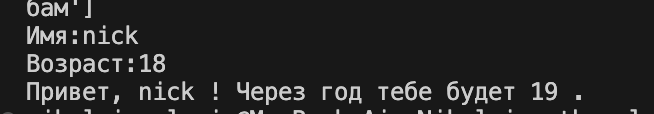
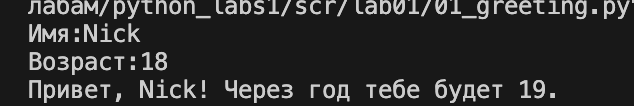
Upd3

diff --git a/scr/lab01/01_greeting.py b/scr/lab01/01_greeting.py
@@ -1,3 +1,3 @@
 a = (input('Имя:'))
 b = int(input('Возраст:'))
-print('Привет,',a,'! Через год тебе будет', b+1,'.')
+print('Привет, '+ str(a) + '! Через год тебе будет '+ str(b+1)+'.')

diff --git a/scr/lab01/04_minutes_to_hhmm.py b/scr/lab01/04_minutes_to_hhmm.py
@@ -2,4 +2,4 @@ minutes_input = int(input('Минуты:'))
 hour = 60
 hours = minutes_input//hour
 minutes = minutes_input-(hours*hour)
-print(hours,':',minutes)
+print(str(hours) + ':' + str(minutes))

diff --git a/README.md b/README.md
@@ -2,6 +2,12 @@
 
 #Лабораторная работа №1
 ## Задание 1
+
+'''python
+a = (input('Имя:'))
+b = int(input('Возраст:'))
+print('Привет,',a,'! Через год тебе будет', b+1,'.')
+'''
 ![Code](./images/lab01/01_greeting.png)
 
 ## Задание 2
